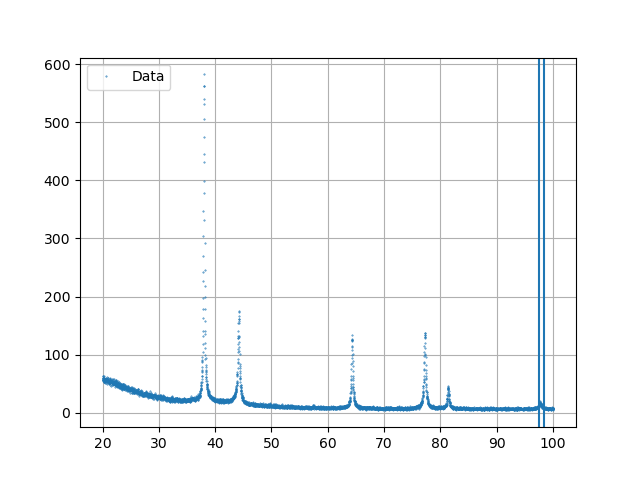
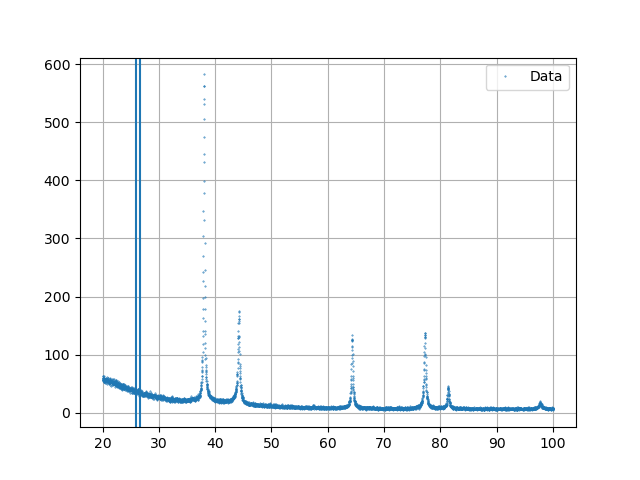
Now working, need cleaning

Changed region(s): [[0.1875, 0.125, 0.2812, 0.875], [0.8125, 0.125, 0.875, 0.2188], [0.75, 0.125, 0.7812, 0.1875]]

diff --git a/Spectrum_realm/Editor.py b/Spectrum_realm/Editor.py
@@ -16,14 +16,15 @@ def Find():
         Data = Fitting(Parser.Parser(Path))
     except:
         messagebox.showwarning("Error", message="Loading data failed.")
-    Handler.Data = Data
+    HandlerProgram.Data = Data
+    HandlerProgram.View()
 
 
 class Handler:
     Data = None
     def __init__(self, root):
         self.root = root
-        self.root.geometry("1500x800")
+        self.root.geometry("1250x600")
         self.root.title("Spectrum Realm")
         Menubar = tk.Menu(root)
         Filemenu = tk.Menu(Menubar)
@@ -33,22 +34,17 @@ class Handler:
         self.root.config(menu = Menubar)
 
 
-
-        Label1 = ttk.Label(self.root, text = "Number of peaks").grid(column = 1, row=1)
+        Label1 = ttk.Label(self.root, text = "Number of peaks").grid(column = 1, row = 1)
         self.NumberOfGaussiansval = tk.StringVar()
         self.NumberOfGaussiansval.set(1)
         self.NumberOfGaussians = ttk.Spinbox(self.root, from_ = 1, to = 20, textvariable = self.NumberOfGaussiansval,
-            command = self.Update).grid(column = 1, row = 2)
+            command = self.Update).grid(column = 1, row = 3)
         self.Boundaryval = tk.StringVar()
         self.Boundaryval.set(25)
-        Label2 = ttk.Label(self.root, text = "Number of points to include").grid(column = 1, row = 3)
+        Label2 = ttk.Label(self.root, text = "Number of points to include").grid(column = 1, row = 5)
         self.Boundary = ttk.Spinbox(self.root, from_ = 25, to = 100, textvariable = self.Boundaryval,
-            command = self.Update).grid(column = 1, row = 4)
-        Btn1 = ttk.Button(root, text = "Apply", command = self.Update).grid(column = 1, row = 5)
-        self.ViewData = tk.Text(master = self.root, height = 5, width = 10).grid(column = 2, row = 2)
-        #self.Scrollbar = tk.Scrollbar(master = self.root).grid(column = 2, row = 2)
-        #self.Scrollbar.config(command = self.ViewData.yview)
-        #self.Viewdata.config(yscrollcommand=self.Scrollbar.set)
+            command = self.Update).grid(column = 1, row = 7)
+        Btn1 = ttk.Button(root, text = "Apply", command = self.Update).grid(column = 1, row = 9)
 
 
     def Update(self):
@@ -59,35 +55,35 @@ class Handler:
                 self.Data.NumberOfFits = int(self.NumberOfGaussiansval.get())
                 self.Data.Boundary = int(self.Boundaryval.get())
                 self.Data.AutoDetectPeaks()
-                self.Data.PlotFits()
-                #self.ViewData.delete('1.0', tk.END)
-                #self.ViewData.insert(tk.END, self.Data.Data())
+                text1 = tk.Text(master = self.root, height = 30, width = 50)
+                text1.grid(column = 3, row = 1,rowspan = 9)
+                scrollb = ttk.Scrollbar(master = self.root, command=text1.yview)
+                scrollb.grid(column = 4, row=2, rowspan = 9, sticky='nsew')
+                text1['yscrollcommand'] = scrollb.set
+                text1.grid(column = 3, row=2, rowspan = 9)
+                text1.insert(tk.INSERT, self.Data.Data())
+                self.View()
             except Exception as e:
                 raise e
-            self.View()
 
     def Manual(self):
         if Data == None:
             messagebox.showwarning("Error", message="Needs data.")
         else:
             Level = tk.Toplevel(master = self.root)
-            Level.geometry("600x500")
+            Level.geometry("800x600")
             ManualFits(Level, self.Data)
 
     def View(self):
-        load1 = Image.open(os.path.join(os.getcwd(),"Orignal.png"))
-        render1 = ImageTk.PhotoImage(load1)
-        img1 = tk.Label(self.root, image = render1)
-        img1.image = render1
-        img1.grid(column = 2, row = 1)
         try:
-            load2 = Image.open(os.path.join(os.getcwd(),"Current.png"))
-            render2 = ImageTk.PhotoImage(load2)
-            img2 = tk.Label(self.root, image = render2)
-            img2.image = render2
-            img2.grid(column = 3, row = 1)
-        except:
-            pass
+            self.Data.PlotFits()
+            load1 = Image.open(os.path.join(os.getcwd(),"Current.png"))
+            render1 = ImageTk.PhotoImage(load1)
+            img1 = tk.Label(self.root, image = render1)
+            img1.image = render1
+            img1.grid(column = 2, row = 1, rowspan = 9)
+        except Exception as e:
+            raise e
 
 class ManualFits():
     def __init__(self, root, Data):
@@ -107,6 +103,7 @@ class ManualFits():
         self.Scale1val.set(1)
         self.Scale2val.set(25)
         Btn1 = ttk.Button(master = self.master, text = "Apply fit", command = self.Commit).grid(column = 1, row = 3)
+        self.Update1()
 
     def Update1(self, value = None):
         index = int(self.Scale1val.get())
@@ -117,7 +114,7 @@ class ManualFits():
             render2 = ImageTk.PhotoImage(load2)
             img2 = tk.Label(self.master, image = render2)
             img2.image = render2
-            img2.grid(column = 3, row = 4)
+            img2.grid(column = 3, row = 1, rowspan = 4)
         except Exception as e:
             raise e
 
@@ -132,8 +129,8 @@ class ManualFits():
 
 
 if __name__ == '__main__':
-    global root
+    global root, HandlerProgram
     Data = None
     root = tk.Tk()
-    Handler(root)
+    HandlerProgram = Handler(root)
     root.mainloop()

diff --git a/Spectrum_realm/Gaussian.py b/Spectrum_realm/Gaussian.py
@@ -4,6 +4,7 @@ import matplotlib.pyplot as plt
 import os
 from scipy.optimize import curve_fit
 from PhysicsNum import RiemanSum
+import time
 
 class Fitting:
     def __init__(self, Data):
@@ -33,7 +34,7 @@ class Fitting:
         plt.title(self.Title)
         plt.xlabel(self.xlabel)
         plt.ylabel(self.ylabel)
-        plt.savefig("Orignal.png")
+        plt.savefig("Current.png")
         plt.clf()
 
     def Manual(self, index, boundary):
@@ -119,12 +120,14 @@ class Fitting:
                     Background = self.Background
                 plt.plot(self.FitsMade[i][0], self.FitsMade[i][1] + Background, '-', label = f"Fit to peak {i+1}")
                 #print(max(self.FitsMade[i][1]))
+            """
             for i in range(len(self.ManualFits)):
                 if not isinstance(self.Background, (np.ndarray, np.generic)):
                     Background = 0
                 else:
                     Background = self.Background
                 plt.plot(self.ManualFits[i][0], self.ManualFits[i][1] + Background, label = f"Manual fits{i+1}")
+            """
             plt.legend()
             plt.grid()
             plt.savefig("Current.png")
@@ -137,5 +140,5 @@ class Fitting:
         for i in range(len(self.Error)):
             text = text + f"Covarience {self.Error[i]} for automated peak {i+1}\n"
             text = text + f"Area  = {self.Area[i]}for automated peak {i+1}\n"
-            text = text + f"Amplitude = {self.FitsMadeVal[i][0]}\n Mu = {self.FitsMadeVal[i][1]}\n Error = {self.FitsMadeVal[i][2]}"
+            text = text + f"Amplitude = {self.FitsMadeVal[i][0]}\nMu = {self.FitsMadeVal[i][1]}\nError = {self.FitsMadeVal[i][2]}\n\n "
         return text
